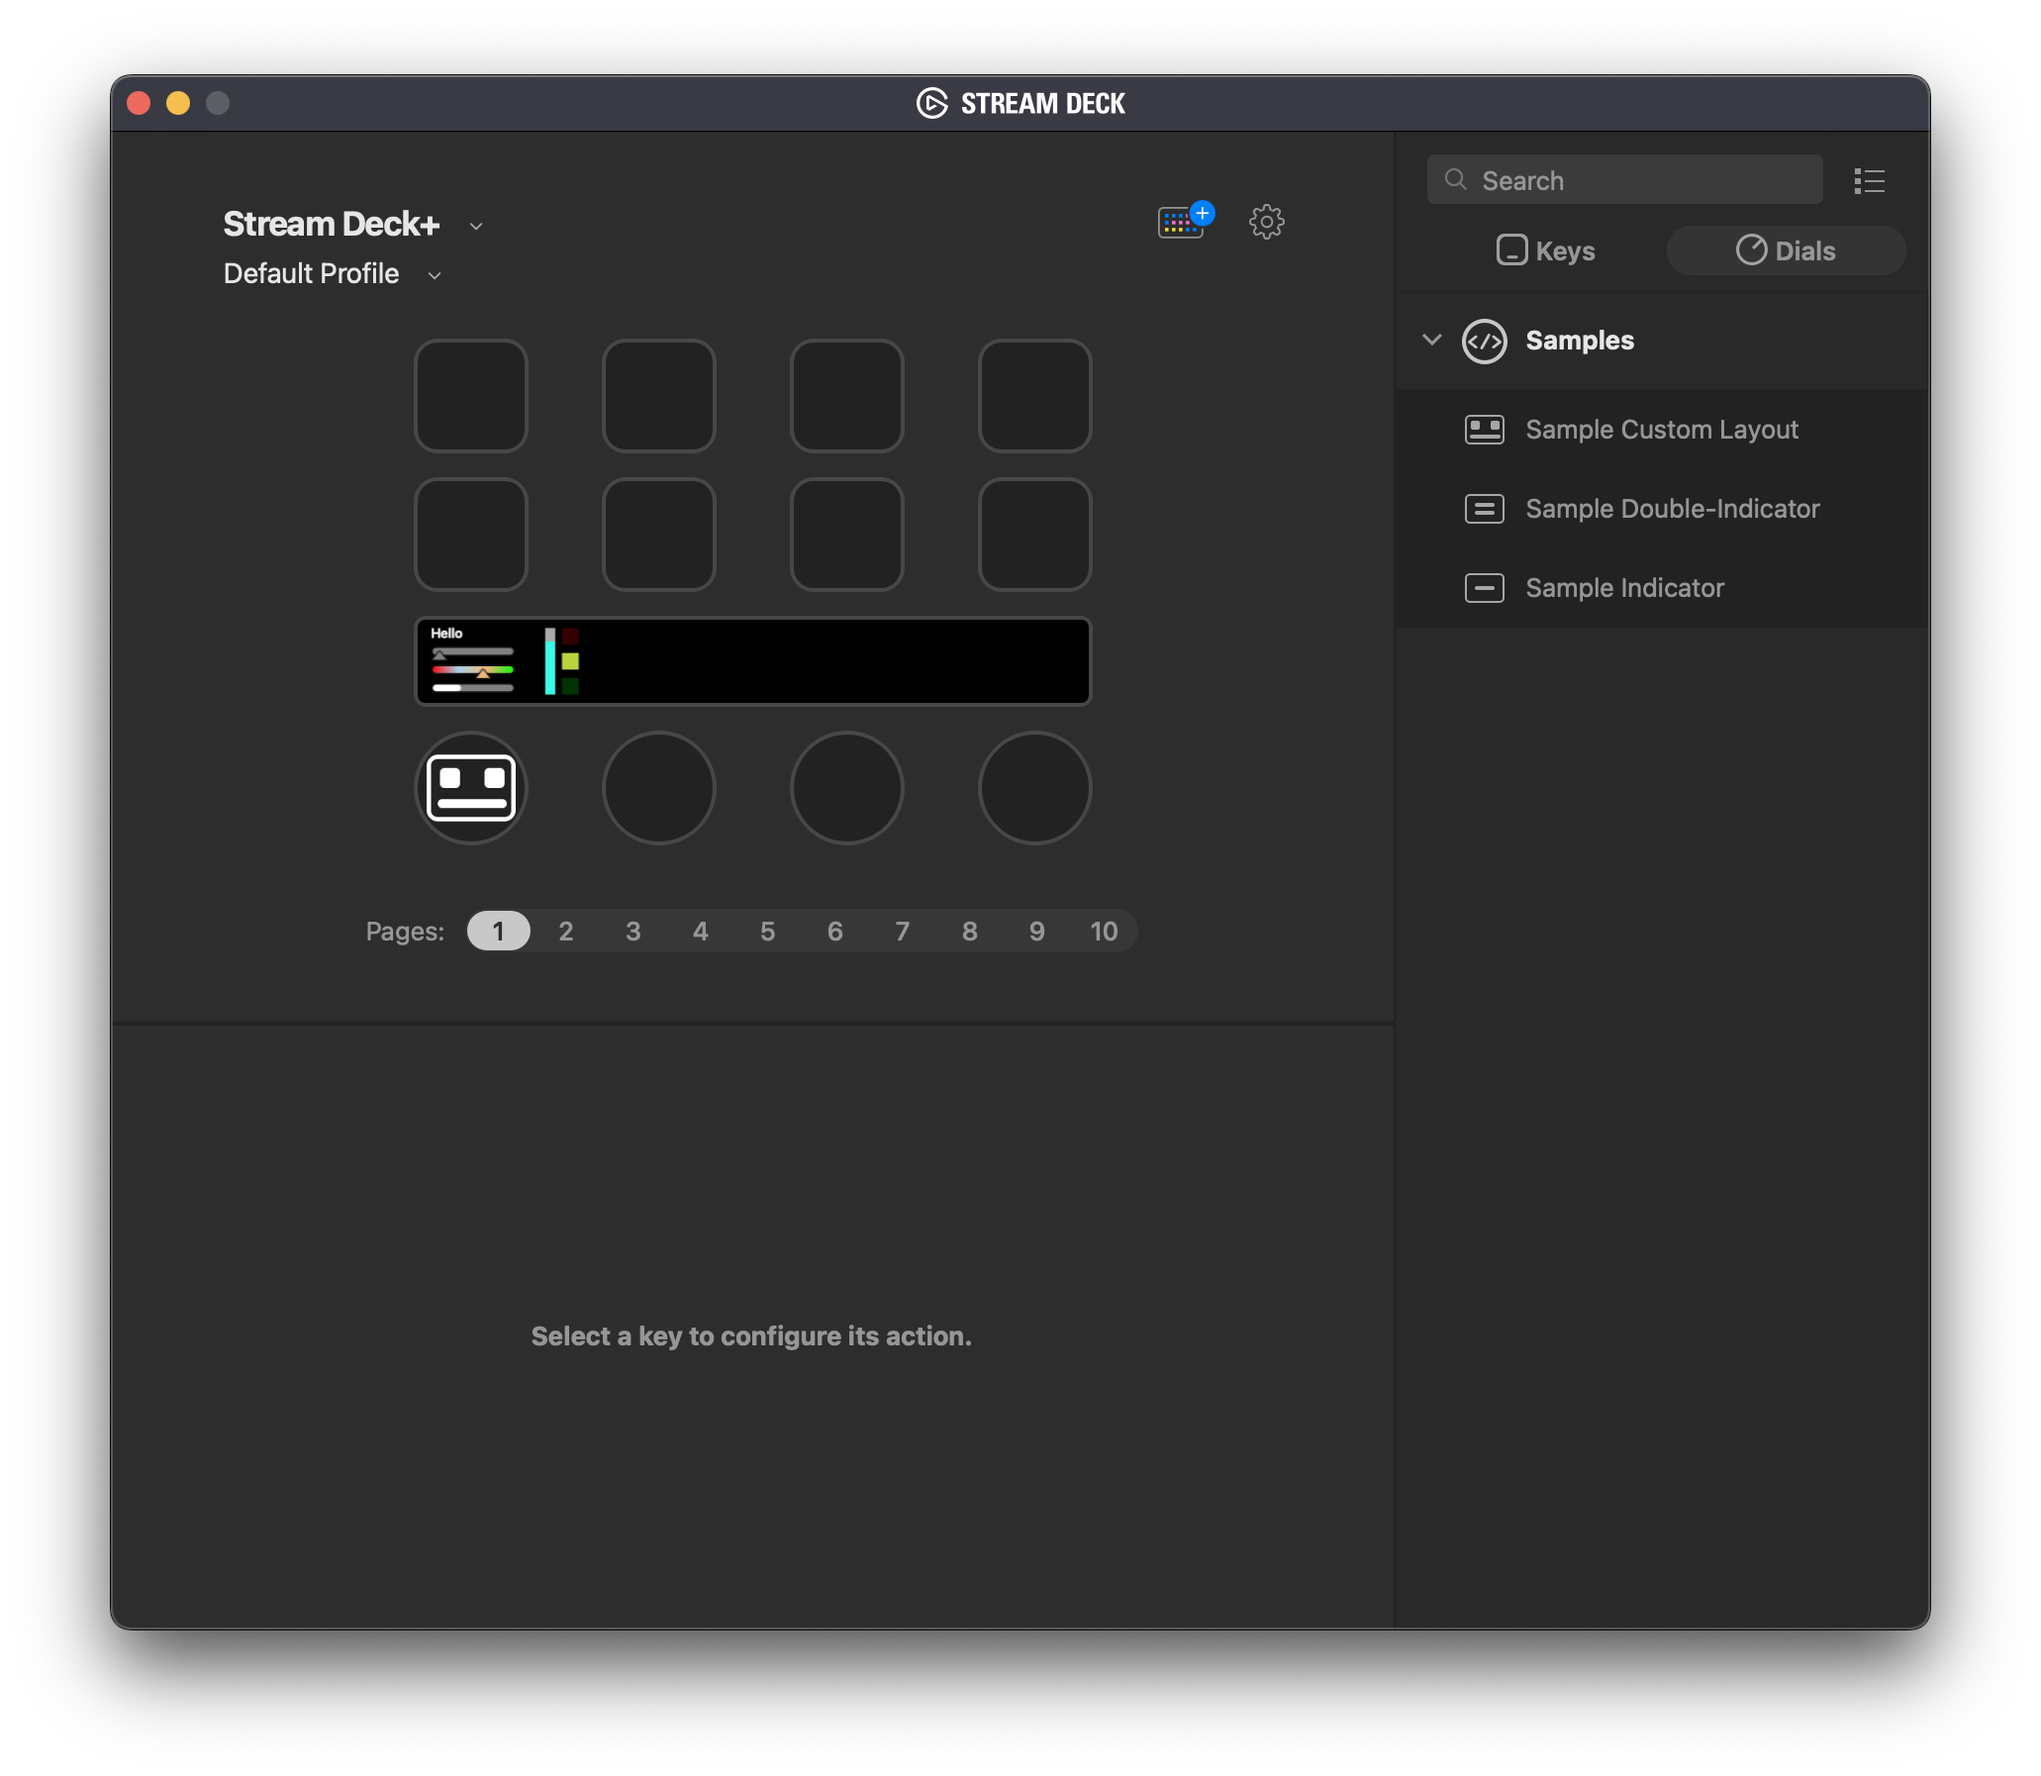
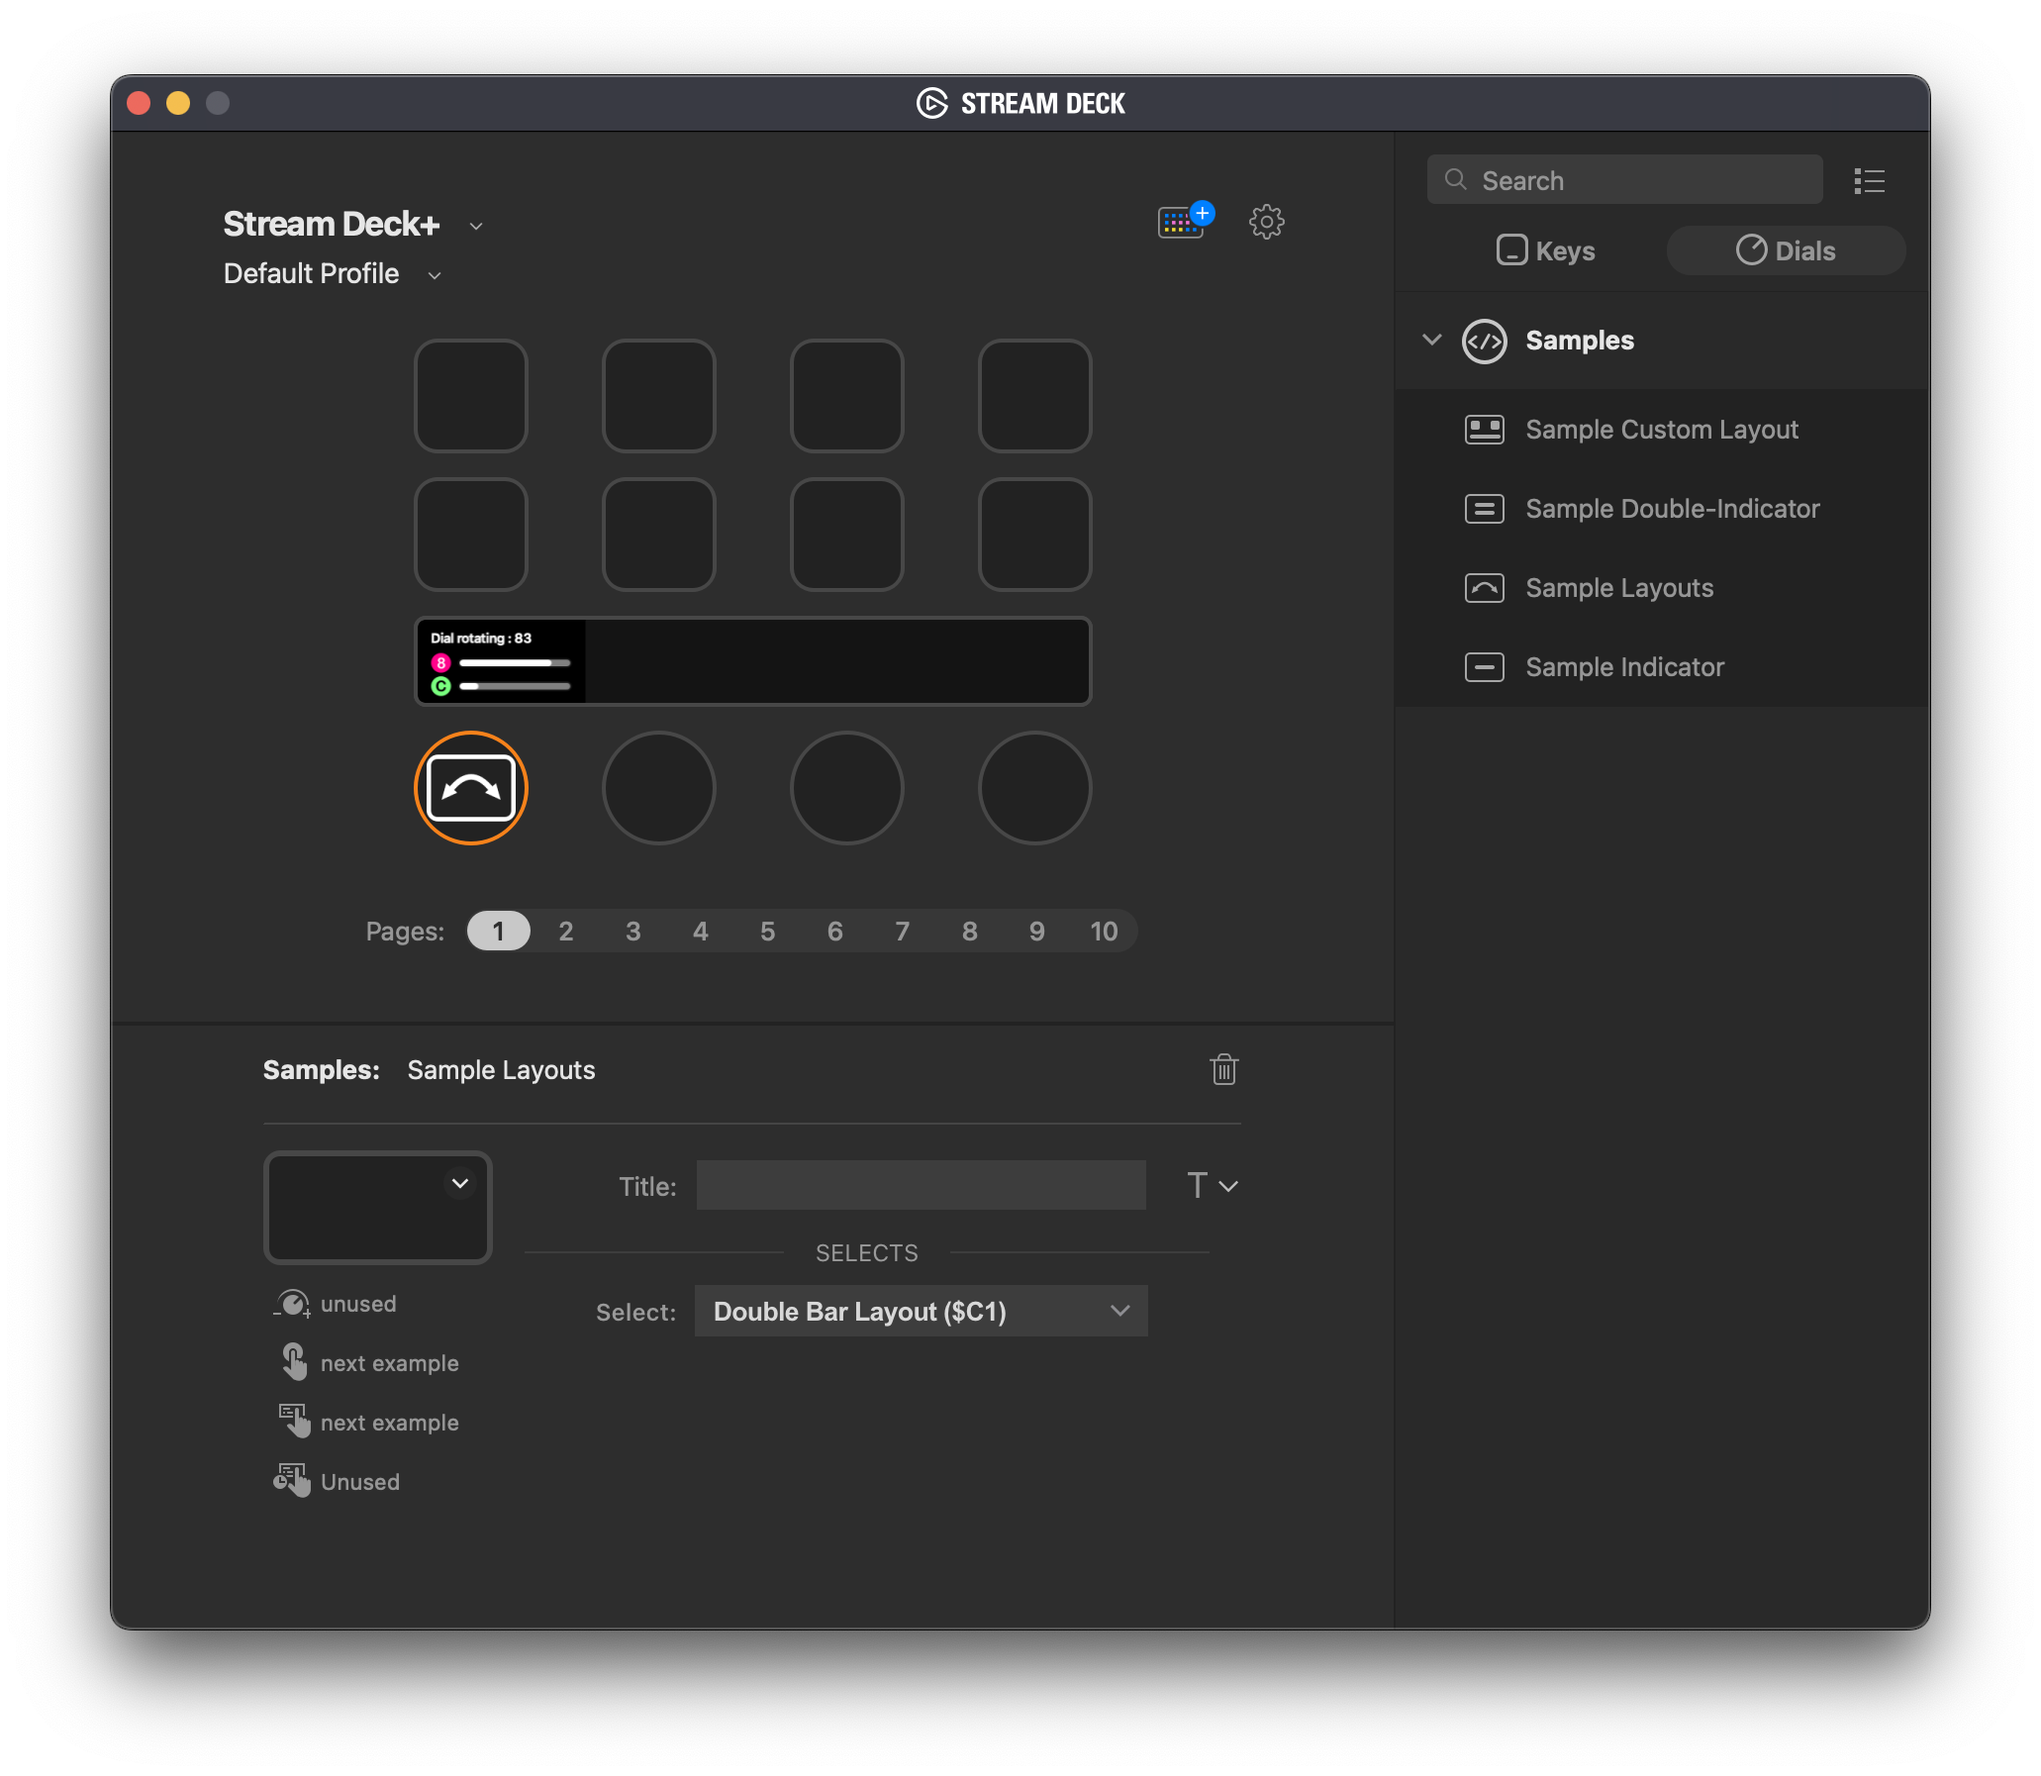
add readme

diff --git a/README.md b/README.md
@@ -1,3 +1,11 @@
-# A Sample Custom Layout Stream Deck Plugin
+# A Sample Layouts Stream Deck Plugin
 
 ![Screenshot](screenshot.png)
+
+This SDK-example shows how to use:
+- layouts (built-in and custom)
+- setFeedbackLayout
+- setFeedback
+- load layout from file
+- load icons from file
+- create icons using svg
